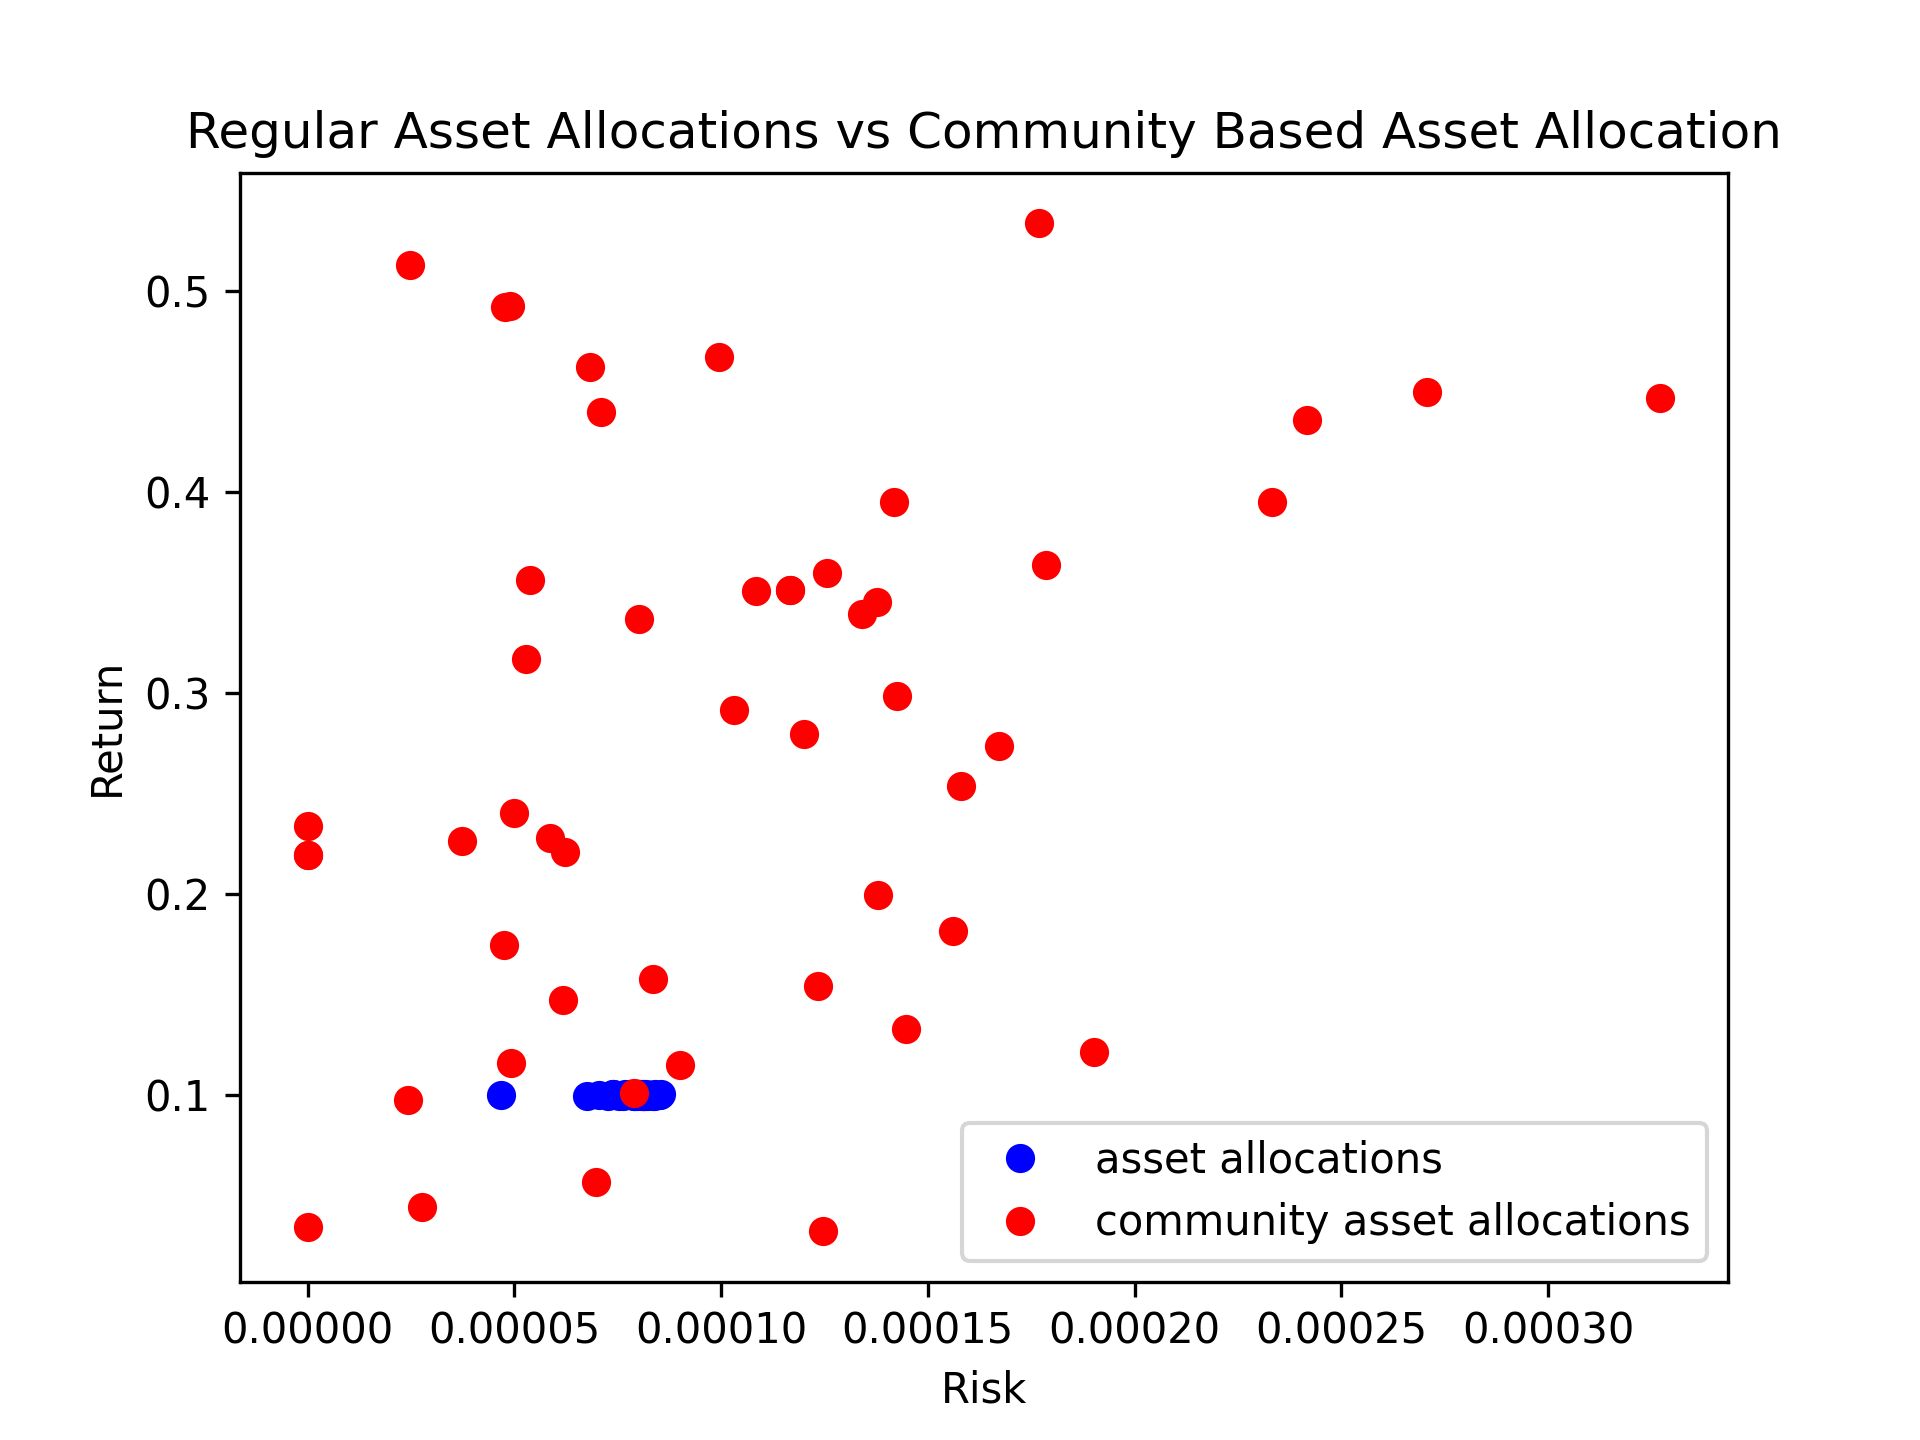
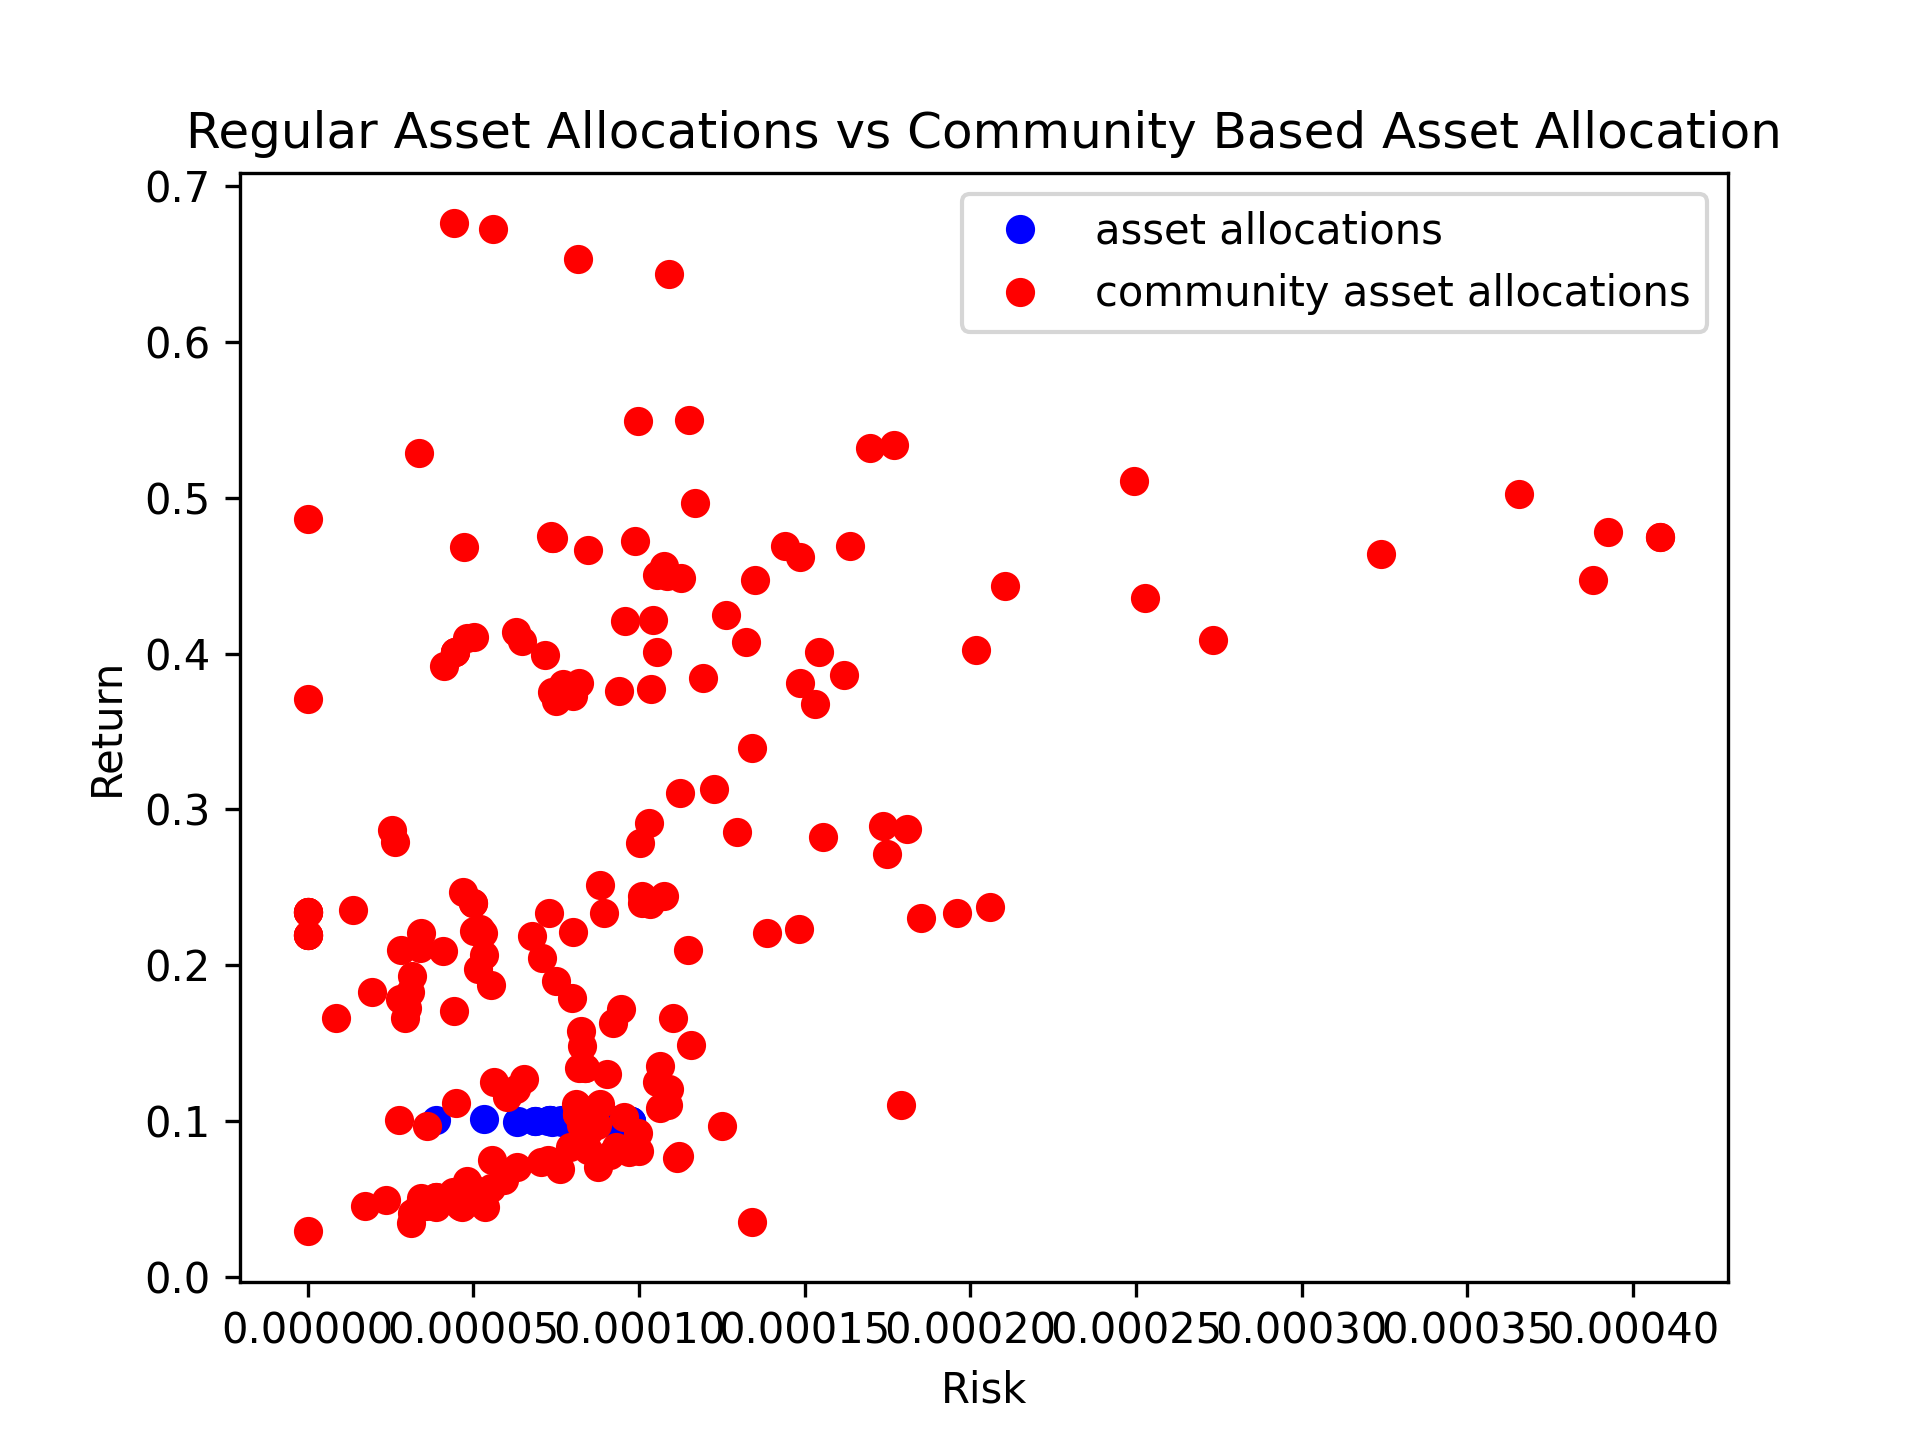
daily changes plus benchmarking

diff --git a/src/benchmark.py b/src/benchmark.py
@@ -11,42 +11,69 @@ from main import community_asset_allocation
 this test runs asset allocation on 20 assets against community
 detection based asset allocation on 20 assets.
 """
-
-def benchmark_1(assets, number_runs=50, solver_type="HYBRID", number_communities=5):
+def benchmark_1(assets, number_runs=200, number_communities=5):
     daily_returns = closing_prices(assets=assets)
 
-    returns = daily_returns.mean() * 252 # returns 
+    returns = daily_returns.mean() * 252 # returns
     cov_matrix = get_covariance(daily_returns=daily_returns) # covariance matrix
 
     caa_rar = [] # community asset allocation risk and returns
     aa_rar = [] # asset allocation risk and returns
 
     for _ in tqdm(range(number_runs)):
-        caa = community_asset_allocation(daily_returns=daily_returns, number_communities=number_communities, solver_type=solver_type) # community asset allocations
+        caa = community_asset_allocation(daily_returns=daily_returns, number_communities=number_communities) # community asset allocations
 
         caa_rar.append((getRisk(covariance=cov_matrix, allocations=caa), getReturns(allocations=caa, returns=returns)))
 
         aa = AssetAllocation(returns=returns.to_numpy(), covariance=cov_matrix.to_numpy()) # asset allocation object 
-        aas = aa.run(solver_type=solver_type) # asset allocations 
+        aas = aa.run() # asset allocations 
 
         aa_rar.append((getRisk(covariance=cov_matrix, allocations=aas), getReturns(allocations=aas, returns=returns)))
 
     return aa_rar, caa_rar
 
+"""
+this test runs community asset allocation 
+"""
+def benchmark_2(assets, number_runs=200, number_communities=5):
+    daily_returns = closing_prices(assets=assets)
+
+    returns = daily_returns.mean() * 252 # returns 
+    cov_matrix = get_covariance(daily_returns=daily_returns) # covariance matrix
+
+    cov_rar = []
+    corr_rar = []
+
+    for _ in tqdm(range(number_runs)):
+        caa = community_asset_allocation(daily_returns=daily_returns, number_communities=number_communities)
+        corr = community_asset_allocation(daily_returns=daily_returns, number_communities=number_communities)
+
+        cov_rar.append((getRisk(covariance=cov_matrix, allocations=caa), getReturns(allocations=caa, returns=returns)))
+        corr_rar.append((getRisk(covariance=cov_matrix, allocations=corr), getReturns(allocations=corr, returns=returns)))
+
+    return cov_rar, corr_rar
+
+"""
+test diversification
+"""
+
+
+
 if __name__ == "__main__":
     with open("benchmarking_assets.txt", "r") as file:
         total_assets = [ticker for line in file if (ticker := line.split("#")[0].split("-")[0].split(" ")[0].strip())]
 
-        assets = total_assets[:20]
+        random_indices = np.random.choice(len(total_assets), size=20, replace=False)
+        assets = [total_assets[i] for i in random_indices]
 
         """
         first benchmarking test
         """
 
-        asset_allocations, community_asset_allocations = benchmark_1(assets=assets)
+        asset_allocations, community_asset_allocations = benchmark_1(assets=assets, number_communities=3) # three communities
 
-        plt.plot(*zip(*asset_allocations), "bo", label="asset allocations")
-        plt.plot(*zip(*community_asset_allocations), "ro", label="community asset allocations")
+        plt.plot(*zip(*asset_allocations), "bo", label="without communities")
+        plt.plot(*zip(*community_asset_allocations), "ro", label="with communities")
 
         plt.xlabel("Risk") 
         plt.ylabel("Return")
@@ -59,5 +86,20 @@ if __name__ == "__main__":
         """
         second benchmarking test
         """
+
+        community_asset_allocation_with_correlations, community_asset_allocation_with_covariance = benchmark_2(assets=assets, number_communities=3)
+
+        plt.plot(*zip(*community_asset_allocation_with_correlations), "bo", label="correlations graph")
+        plt.plot(*zip(*community_asset_allocation_with_covariance), "ro", label="covariance graph")
+
+        plt.xlabel("Risk") 
+        plt.ylabel("Return")
+        plt.title("Covariance vs Correlations as Adjacency for Community Detection")
+        plt.legend()
+
+        plt.savefig("../figures/benchmark_1.png", dpi=300)
+        plt.show()
+
+
 
 

diff --git a/src/main.py b/src/main.py
@@ -7,41 +7,47 @@ import networkx as nx
 
 from modules import *
 
-def community_asset_allocation(daily_returns, number_communities, solver_type="QPU", gamma=8.0, beta=1.0):
-    returns = daily_returns.mean() * 252
-    covariance_matrix = get_covariance(daily_returns=daily_returns) # should we replace this with something else? 
+gamma = 8.0
+beta = 1.0
+
+def community_asset_allocation(daily_returns, number_communities, solver_type="SIMULATED", adjacency=get_covariance):
+    returns = daily_returns.mean() * 252 # array: (num_assets,), multiply by 252 to annualize
+
+    covariance_matrix = adjacency(daily_returns=daily_returns) # array: (num_assets, num_assets)
 
     graph = nx.from_numpy_array(covariance_matrix.to_numpy())
-    #draw_graph(graph=graph, name=".graph.png") # comment out 
+    #draw_graph(graph=graph, name=".graph.png")
 
     community_detection = CommunityDetection(adjacency_matrix=covariance_matrix, number_communities=number_communities)
-    communities = community_detection.run(solver_type=solver_type)
+    communities = community_detection.run(solver_type=solver_type) # array: (num_assets,)
 
-    comms = {}
-    nodes = list(graph.nodes())
-    for node, c in zip(nodes, communities):
-        comms.setdefault(int(c), set()).add(node)
-    partitions = [group for group in comms.values() if group]
+    partitions = [set(np.where(communities == c)[0]) for c in np.unique(communities)] # array of sets of the partitions
 
-    #draw_graph(graph=graph, name=".graph_with_communities.png", labels=communities) # comment this out
+    #draw_graph(graph=graph, name=".graph_with_communities.png", labels=communities)
 
-    group_average_returns = {}
-    group_daily_returns = np.zeros((len(daily_returns), number_communities))
+    group_average_returns = {} # stores the expected return of each community
 
+    # note that group_daily_returns creates a time series of returns for each community
+    group_daily_returns = np.zeros((len(daily_returns), number_communities)) # array: (number of daily_returns, number_communities)
+
+    """
+    note this converts each community/partition into a single "asset" by computing its average annual return and
+    its daily return time series then partition_covariance_matrix computes the covariance
+    """
     for group_index, asset_group in enumerate(partitions):
         asset_group = list(asset_group)
 
         group_average_returns[group_index] = returns.iloc[asset_group].mean()
         group_daily_returns[:, group_index] = daily_returns.iloc[:, asset_group].mean(axis=1).to_numpy()
 
-    partition_covariance_matrix = np.cov(group_daily_returns, rowvar=False)
+    partition_covariance_matrix = np.cov(group_daily_returns, rowvar=False) # covariance of each partition
 
     upper_allocation = AssetAllocation(returns=list(group_average_returns.values()), covariance=partition_covariance_matrix)
     upper_allocations = upper_allocation.run(solver_type=solver_type)
 
     lower_allocations = []
 
-    for i, cluster in enumerate(partitions):
+    for _, cluster in enumerate(partitions):
         cluster = list(cluster)
 
         cluster_returns = [returns.iloc[asset] for asset in cluster]
@@ -52,7 +58,7 @@ def community_asset_allocation(daily_returns, number_communities, solver_type="Q
 
     allocations = np.array([x * y for x, group in zip(upper_allocations, lower_allocations) for y in group])
 
-    plot_allocations_and_communities(graph=graph, assets=assets, weights=allocations, communities=communities) # comment this out
+    # plot_allocations_and_communities(graph=graph, assets=assets, weights=allocations, communities=communities)
 
     return allocations
 

diff --git a/src/modules/asset_allocation.py b/src/modules/asset_allocation.py
@@ -2,6 +2,9 @@ import numpy as np
 from .qubo import *
 
 class AssetAllocation(Qubo):
+    """
+    takes 
+    """
     def __init__(self, returns, covariance, p=0.1, lambda_3=10, bits_per_asset=6):
         super().__init__()
         self.returns = np.array(returns)

diff --git a/src/modules/qubo.py b/src/modules/qubo.py
@@ -129,6 +129,9 @@ class Qubo(ABC):
         self.energy = best.energy
         self.sampleset = sampleset
 
+
+        # add timings here for future benchmarking 
+
         return x
 
     """

diff --git a/src/modules/portfolio.py b/src/modules/portfolio.py
@@ -5,7 +5,7 @@ import numpy as np
 yahoo finance closing prices
 """
 def closing_prices(assets, start="2020-01-01", end="2026-05-20"):    
-    data = yf.download(assets, start=start, end=end)
+    data = yf.download(assets, start=start, end=end) # needs numpy array? 
     
     closing_prices = data["Close"]
     return closing_prices.pct_change().dropna()